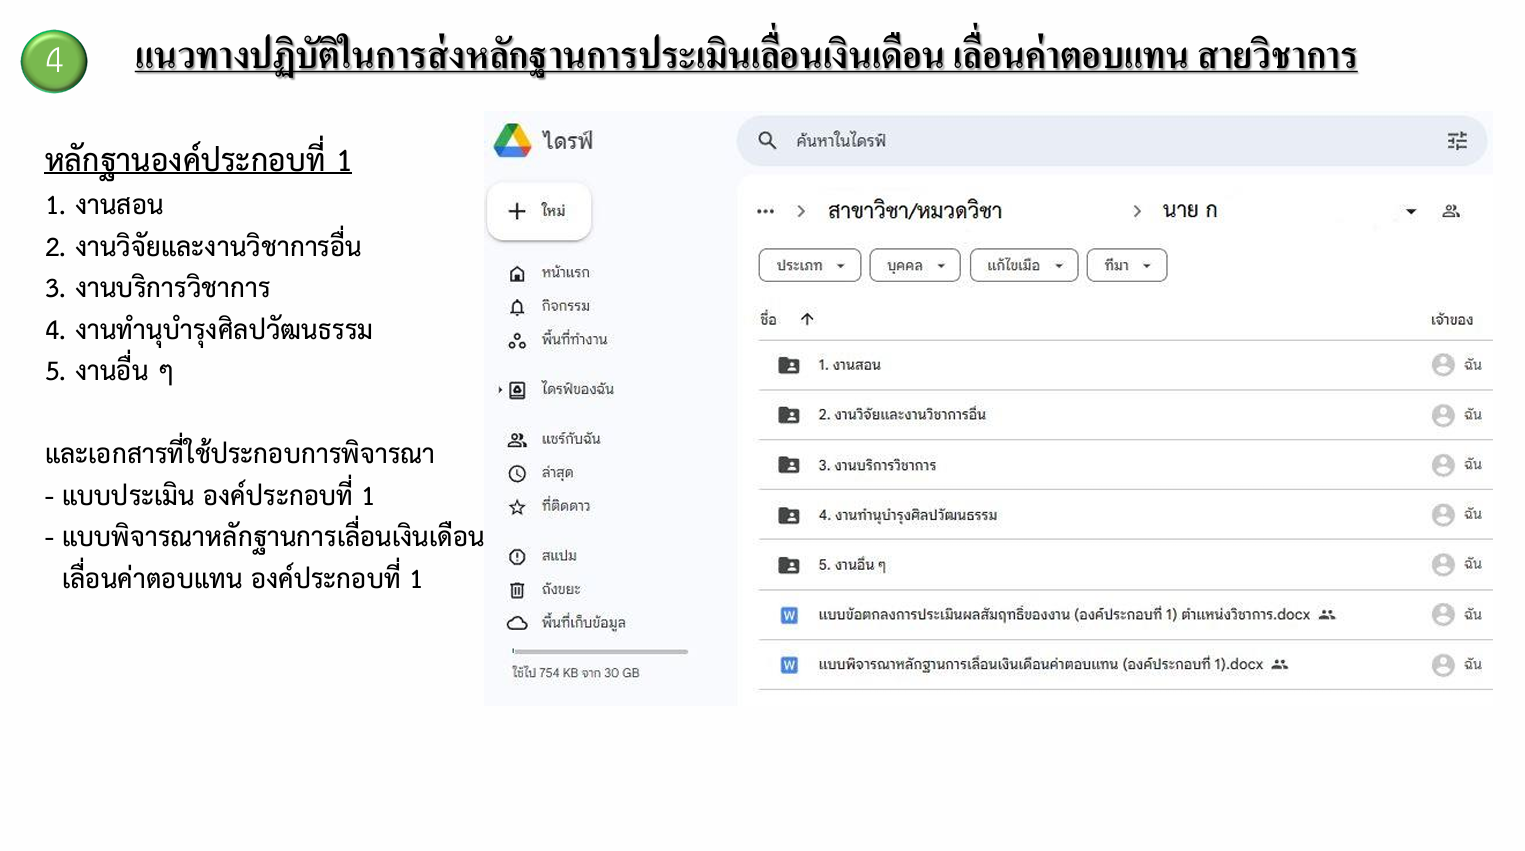
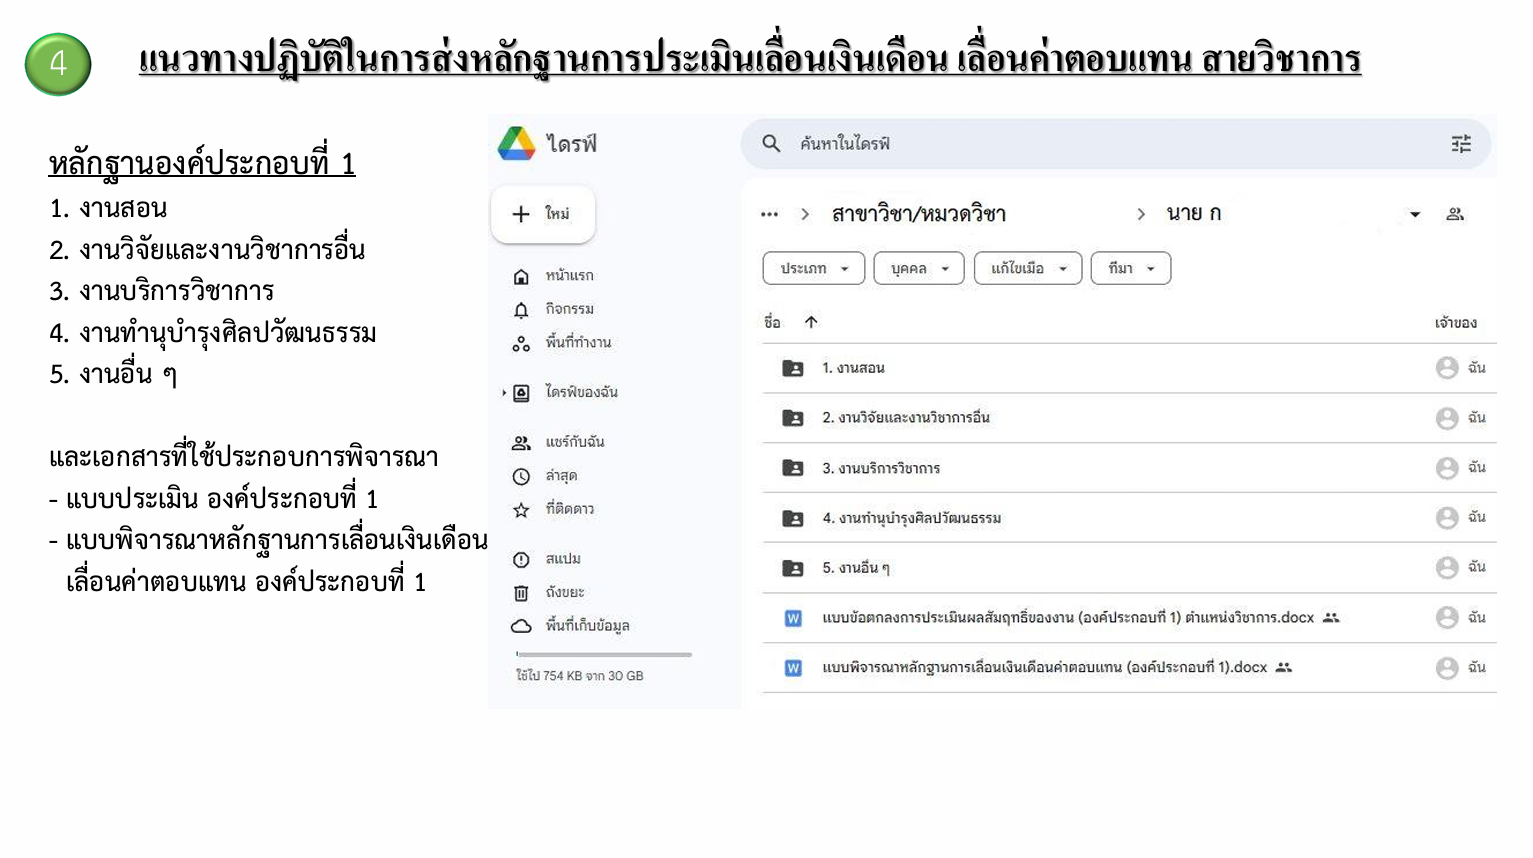
update submission guideline images

diff --git a/source/index.rst b/source/index.rst
@@ -13,13 +13,14 @@
    * แก้ไข: 25 มีนาคม 2025 (:ref:`เอกสาร [19] <official-documents-academic>`  - เพิ่ม 1.5, 2.2, 2.3.8, 3, 5.1, 6.3)
    * แก้ไข: 14 สิงหาคม 2025 (:download:`pdf</academic/files/ข้อ 5 แนวปฏิบัติการส่งหลักฐาน เลื่อนเงินเดือน สายวิชาการ (2025-2).pdf>`)
    * แก้ไข: 1 กันยายน 2025 (เพิ่มเงื่อนไขการได้รับการประเมิน 2 ข้อ 5, หมวด 3 ข้อ 8, หมวด 6 ข้อ 3, ตาม :ref:`เอกสาร [20] <official-documents-academic>`)
+   * แก้ไข: 2 มีนาคม 2026 (อัพเดทภาพแนวทางปฏิบัติในการส่งหลักฐานเลื่อนเงินเดือน สายวิชาการ) 
 
 ภาระงานบุคลากรสายวิชาการ 
 ###############################
 คณะวิทยาศาสตร์และเทคโนโลยี มหาวิทยาลัยเทคโนโลยีราชมงคลพระนคร
 
 เอกสารและเว็บไซต์นี้ จัดทำขึ้นเพื่อรวบรวมข้อมูลที่สำคัญทั้งหมดในการประเมินผลสัมฤทธิ์ของพนักงานมหาวิทยาลัย โดยประกอบเป็น 4 ส่วนหลักด้วยกัน ได้แก่
-
+~
 * ขั้นตอนการส่งหลักฐาน
 * การคำนวณภาระงาน
 * คำจำกัดความ
